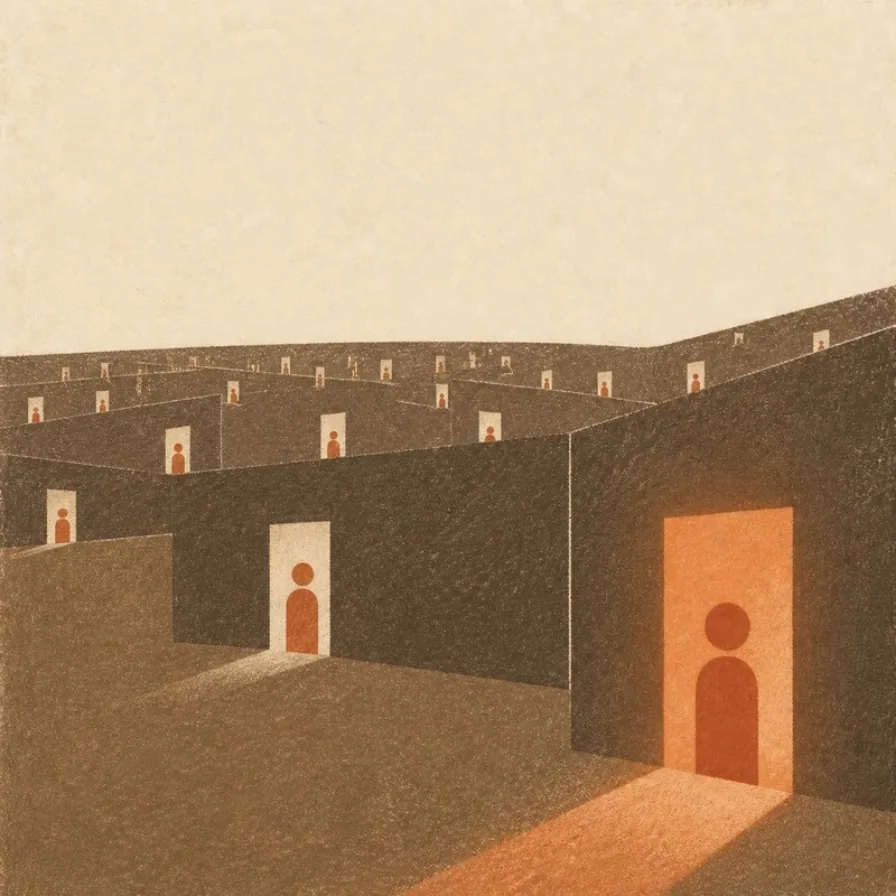
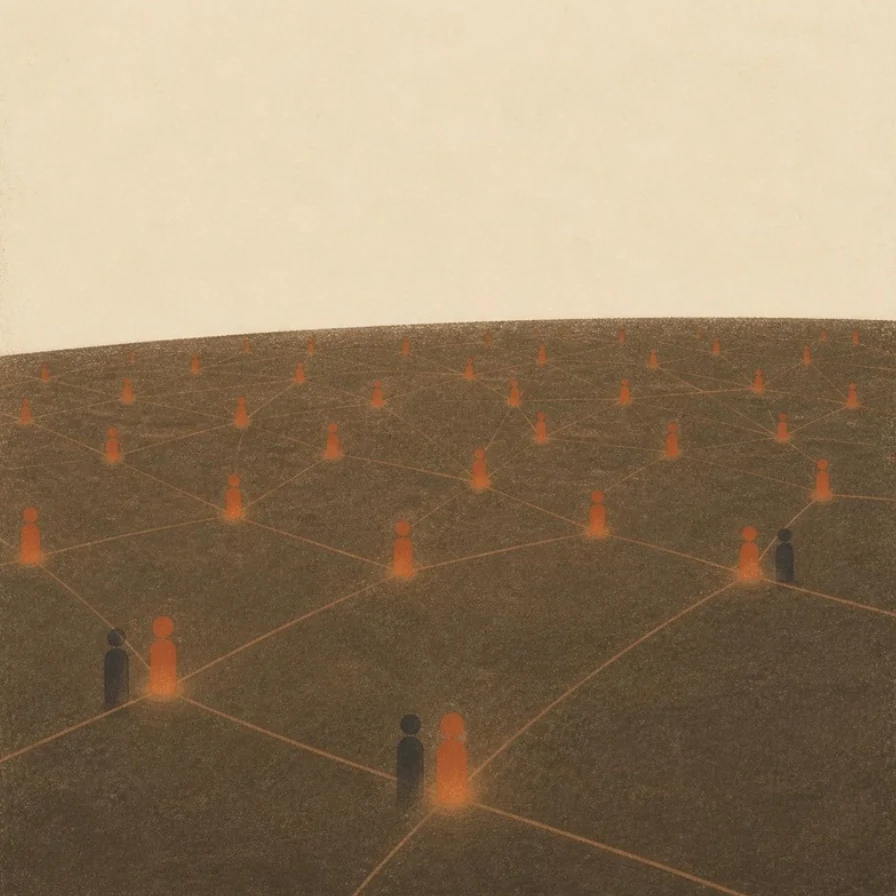
Let the narrative end where it had already got to, and slow the ward to a walk
Two notes from the review: the story reads as horror with no hope, and
the people in the corridor move so fast it is stressful. Both are the
same kind of problem — the execution saying something the writing never
meant.

**The ending undid its own setup.** Beat 7 gets somewhere real: "They
are not rare. They are unconnected," with lines finding their way
between the lights — the community that does not exist yet, but could.
Beat 11 then repeated that sentence in the past tense with the hope
taken out: "Every light out there *was* somebody… and left to carry it
on their own." The last thing anybody read was further back than where
the story had already arrived, under an act titled "Healing begins when
someone sees the whole person." It promised healing and delivered an
indictment.

So beat 11 now finishes the turn instead of reversing it, and the
illustration pays off beat 7 rather than restating beat 6: the lights
are joined. No quote is touched — the closing line is our own
connective prose, and Sunny's sentence above it was always a request to
be understood and supported. The hope was already in the material; it
just never reached the end.

**The corridor was a sprint.** The wall is 9.6 units tall and reads as
a corridor about three metres high, which puts the figures at 2.8–6.5
m/s. That is running, and at the top end sprinting. A ward where
everyone is fleeing is a different beat from the one written here,
[…]

diff --git a/src/components/home/scenes3d.tsx b/src/components/home/scenes3d.tsx
@@ -409,7 +409,19 @@ function Corridor() {
     return Array.from({ length: 26 }, () => ({
       x: (random() - 0.5) * 9,
       z: -random() * 40,
-      speed: 9 + random() * 12,
+      /*
+       * A walk, not a sprint.
+       *
+       * The wall is 9.6 units tall and reads as a corridor about three metres
+       * high, so one unit is roughly 0.31 m. This was 9–21 units/s — 2.8–6.5
+       * m/s, which is running, and at the fast end it is sprinting. A ward
+       * where everybody is fleeing is a different beat from the one written
+       * here: these people are busy and short of time, not in an emergency,
+       * and nobody in this scene is doing anything wrong. 3–6.5 units/s is
+       * 0.9–2.0 m/s, an ordinary walking pace with enough spread that they do
+       * not move as one body.
+       */
+      speed: 3 + random() * 3.5,
       scale: 1 + random() * 0.22,
       // +1 walks toward the reader, -1 away. A figure must face the way it is
       // going; rotating them π while moving them forward is a moonwalk.

diff --git a/src/locales/narrative/pa.ts b/src/locales/narrative/pa.ts
@@ -200,7 +200,7 @@ const pa: NarrativeCopy = {
         },
       ],
       body: [
-        'ਬਾਹਰ ਦੀ ਹਰ ਬੱਤੀ ਕੋਈ ਬੰਦਾ ਸੀ। ਕੋਈ ਹੋਰ ਕਮਰਾ, ਕੋਈ ਹੋਰ ਰਾਤ, ਕੋਈ ਹੋਰ ਬੰਦਾ ਜਿਸ ਨੂੰ ਇਹੀ ਗੱਲ ਕਹੀ ਗਈ ਅਤੇ ਫਿਰ ਇਕੱਲਾ ਛੱਡ ਦਿੱਤਾ ਗਿਆ ਕਿ ਆਪ ਚੁੱਕੇ।',
+        'ਬਾਹਰ ਦੀ ਹਰ ਬੱਤੀ ਕੋਈ ਬੰਦਾ ਹੈ। ਕਿਸੇ ਨੂੰ ਨਹੀਂ ਪਤਾ ਸੀ ਕਿ ਬਾਕੀ ਵੀ ਉੱਥੇ ਹਨ। ਇਸ ਸਾਰੀ ਕਹਾਣੀ ਵਿੱਚੋਂ, ਇਹੀ ਉਹ ਹਿੱਸਾ ਹੈ ਜੋ ਹਾਲੇ ਵੀ ਬਦਲ ਸਕਦਾ ਹੈ।',
       ],
     },
   },

diff --git a/src/locales/narrative/fa.ts b/src/locales/narrative/fa.ts
@@ -203,7 +203,7 @@ const fa: NarrativeCopy = {
         },
       ],
       body: [
-        'هر نوری آن بیرون کسی بود. اتاقی دیگر، شبی دیگر، آدمی دیگر که همین حرف را شنید و تنها گذاشته شد تا خودش حملش کند.',
+        'هر نوری آن بیرون کسی است. هیچکدام نمیدانستند بقیه هم آنجا هستند. از میان همهٔ این داستان، این همان بخشی است که هنوز میشود عوضش کرد.',
       ],
     },
   },

diff --git a/src/components/home/SceneStill.tsx b/src/components/home/SceneStill.tsx
@@ -611,7 +611,7 @@ const ARTWORK: Partial<Record<SceneId, { src: string; alt: string }>> = {
   },
   breath: {
     src: '/stills/breath.webp',
-    alt: 'A dark structure of many rooms receding into the distance, each with a warmly lit doorway and a figure standing in it.',
+    alt: 'Many small warm lights spread across a dark ground, with thin lines running between them joining light to light, and figures standing beside the nearest ones.',
   },
 }
 

diff --git a/src/locales/narrative/fr.ts b/src/locales/narrative/fr.ts
@@ -208,7 +208,7 @@ const fr: NarrativeCopy = {
         },
       ],
       body: [
-        'Chaque lumière là-bas était quelqu’un. Une autre chambre, un autre soir, une autre personne à qui on a dit la même chose et qu’on a laissée le porter seule.',
+        'Chaque lumière là-bas est quelqu’un. Aucune ne savait que les autres étaient là. De toute cette histoire, c’est la partie qui peut encore changer.',
       ],
     },
   },

diff --git a/src/locales/narrative/zh.ts b/src/locales/narrative/zh.ts
@@ -202,7 +202,7 @@ const zh: NarrativeCopy = {
         },
       ],
       body: [
-        '外面的每一盏灯都曾是某个人。另一间病房，另一个夜晚，另一个被告知同样的话、然后被留下独自背负的人。',
+        '外面的每一盏灯都是一个人。他们谁也不知道其他人就在那里。在这个故事的一切之中，这是仍然可以改变的那一部分。',
       ],
     },
   },

diff --git a/src/lib/beats.ts b/src/lib/beats.ts
@@ -306,7 +306,7 @@ export const BEATS: Beat[] = [
       },
     ],
     body: [
-      'Every light out there was somebody. Another room, another night, another person told the same thing and left to carry it on their own.',
+      'Every light out there is somebody. None of them knew the others were there. Of everything in this story, that is the part that can still be changed.',
     ],
   },
 ]
